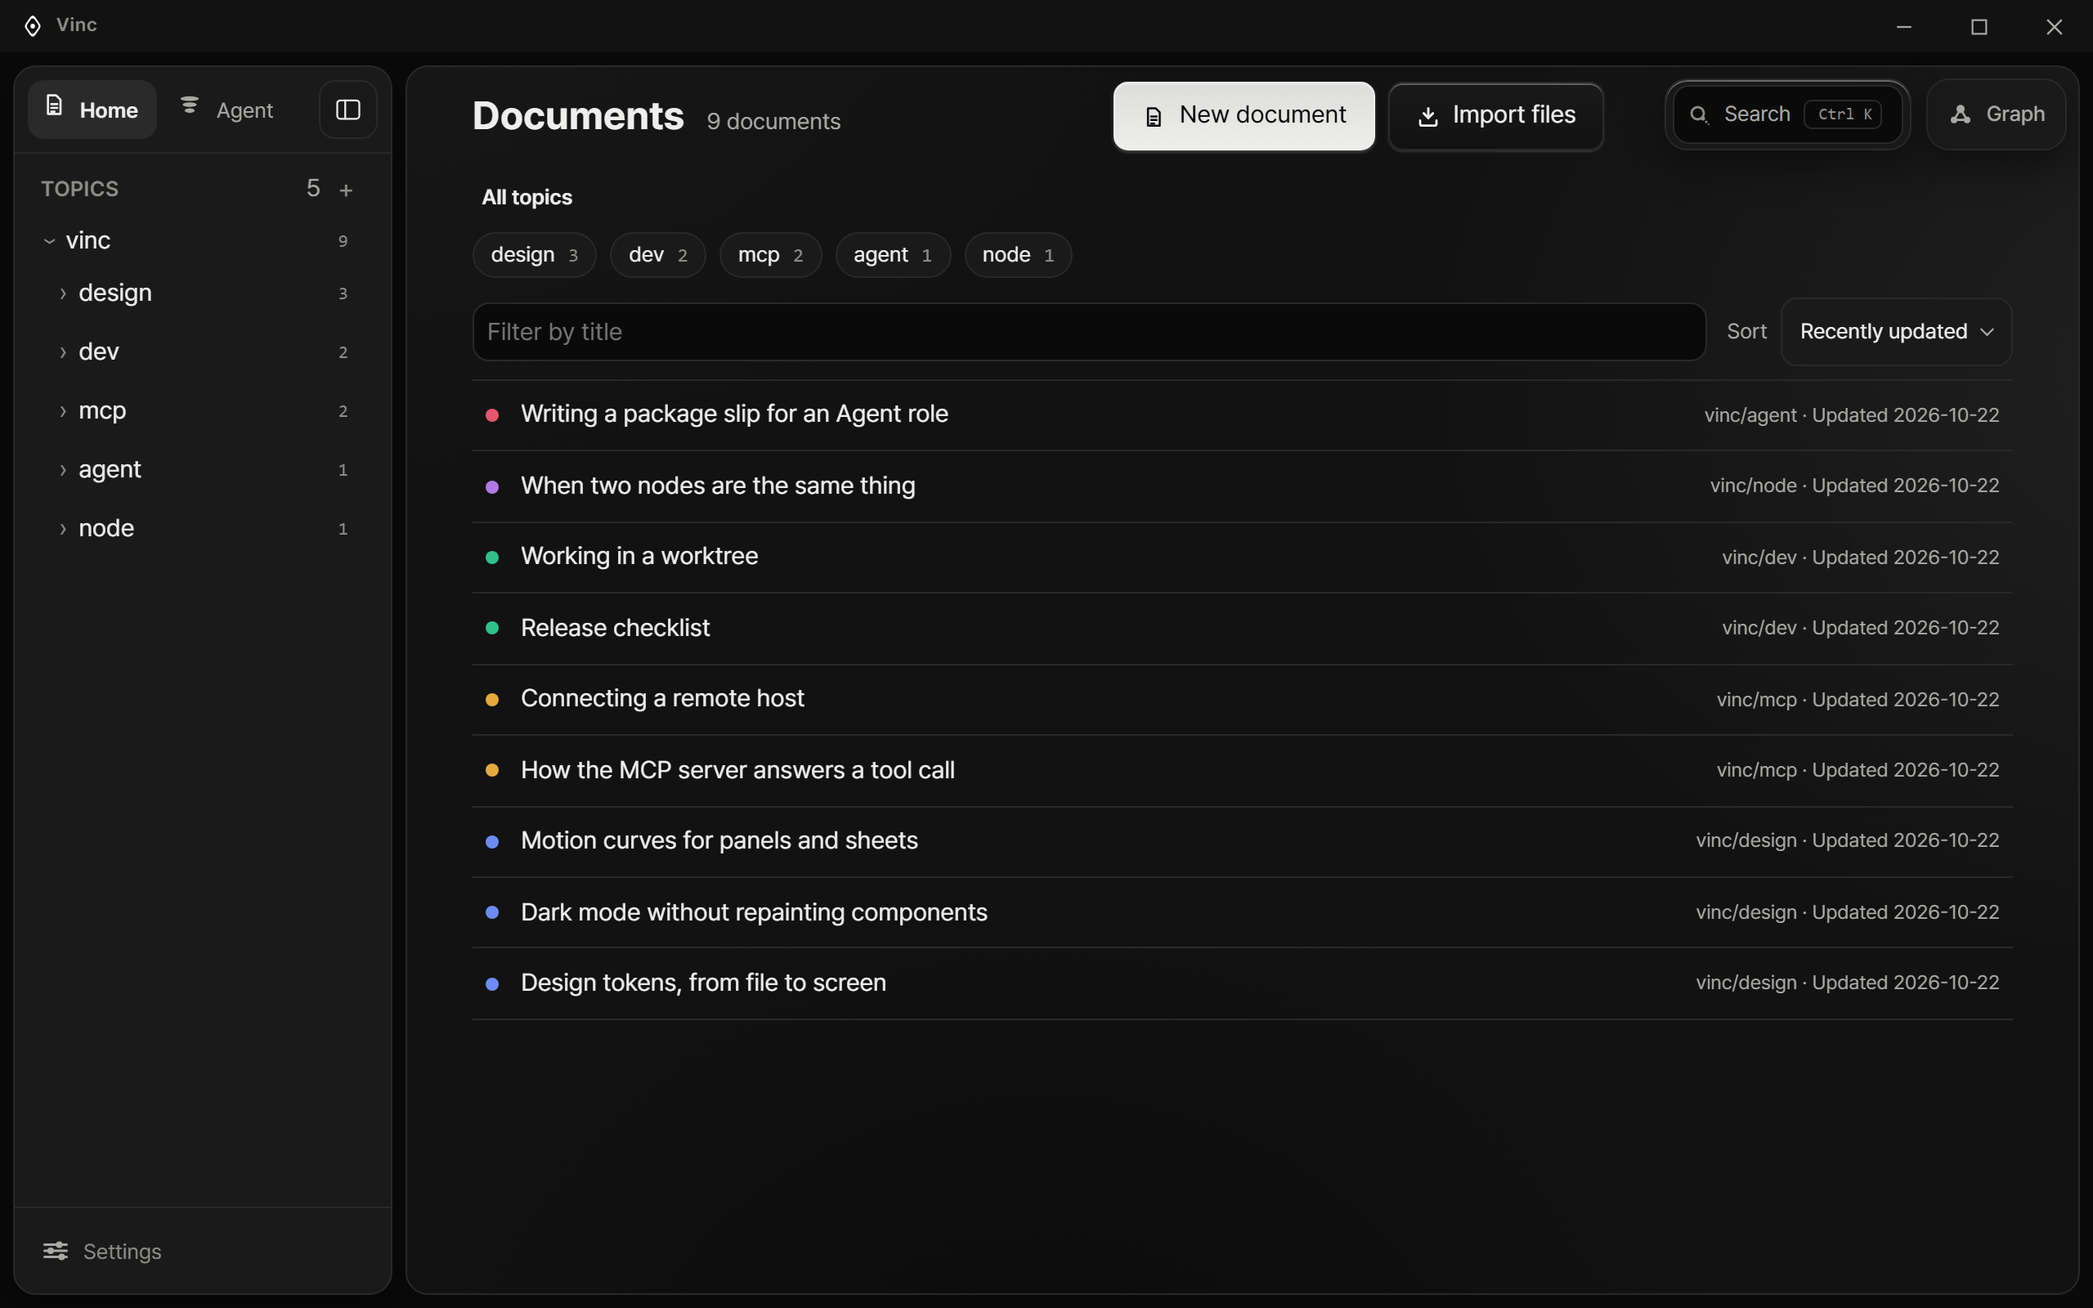
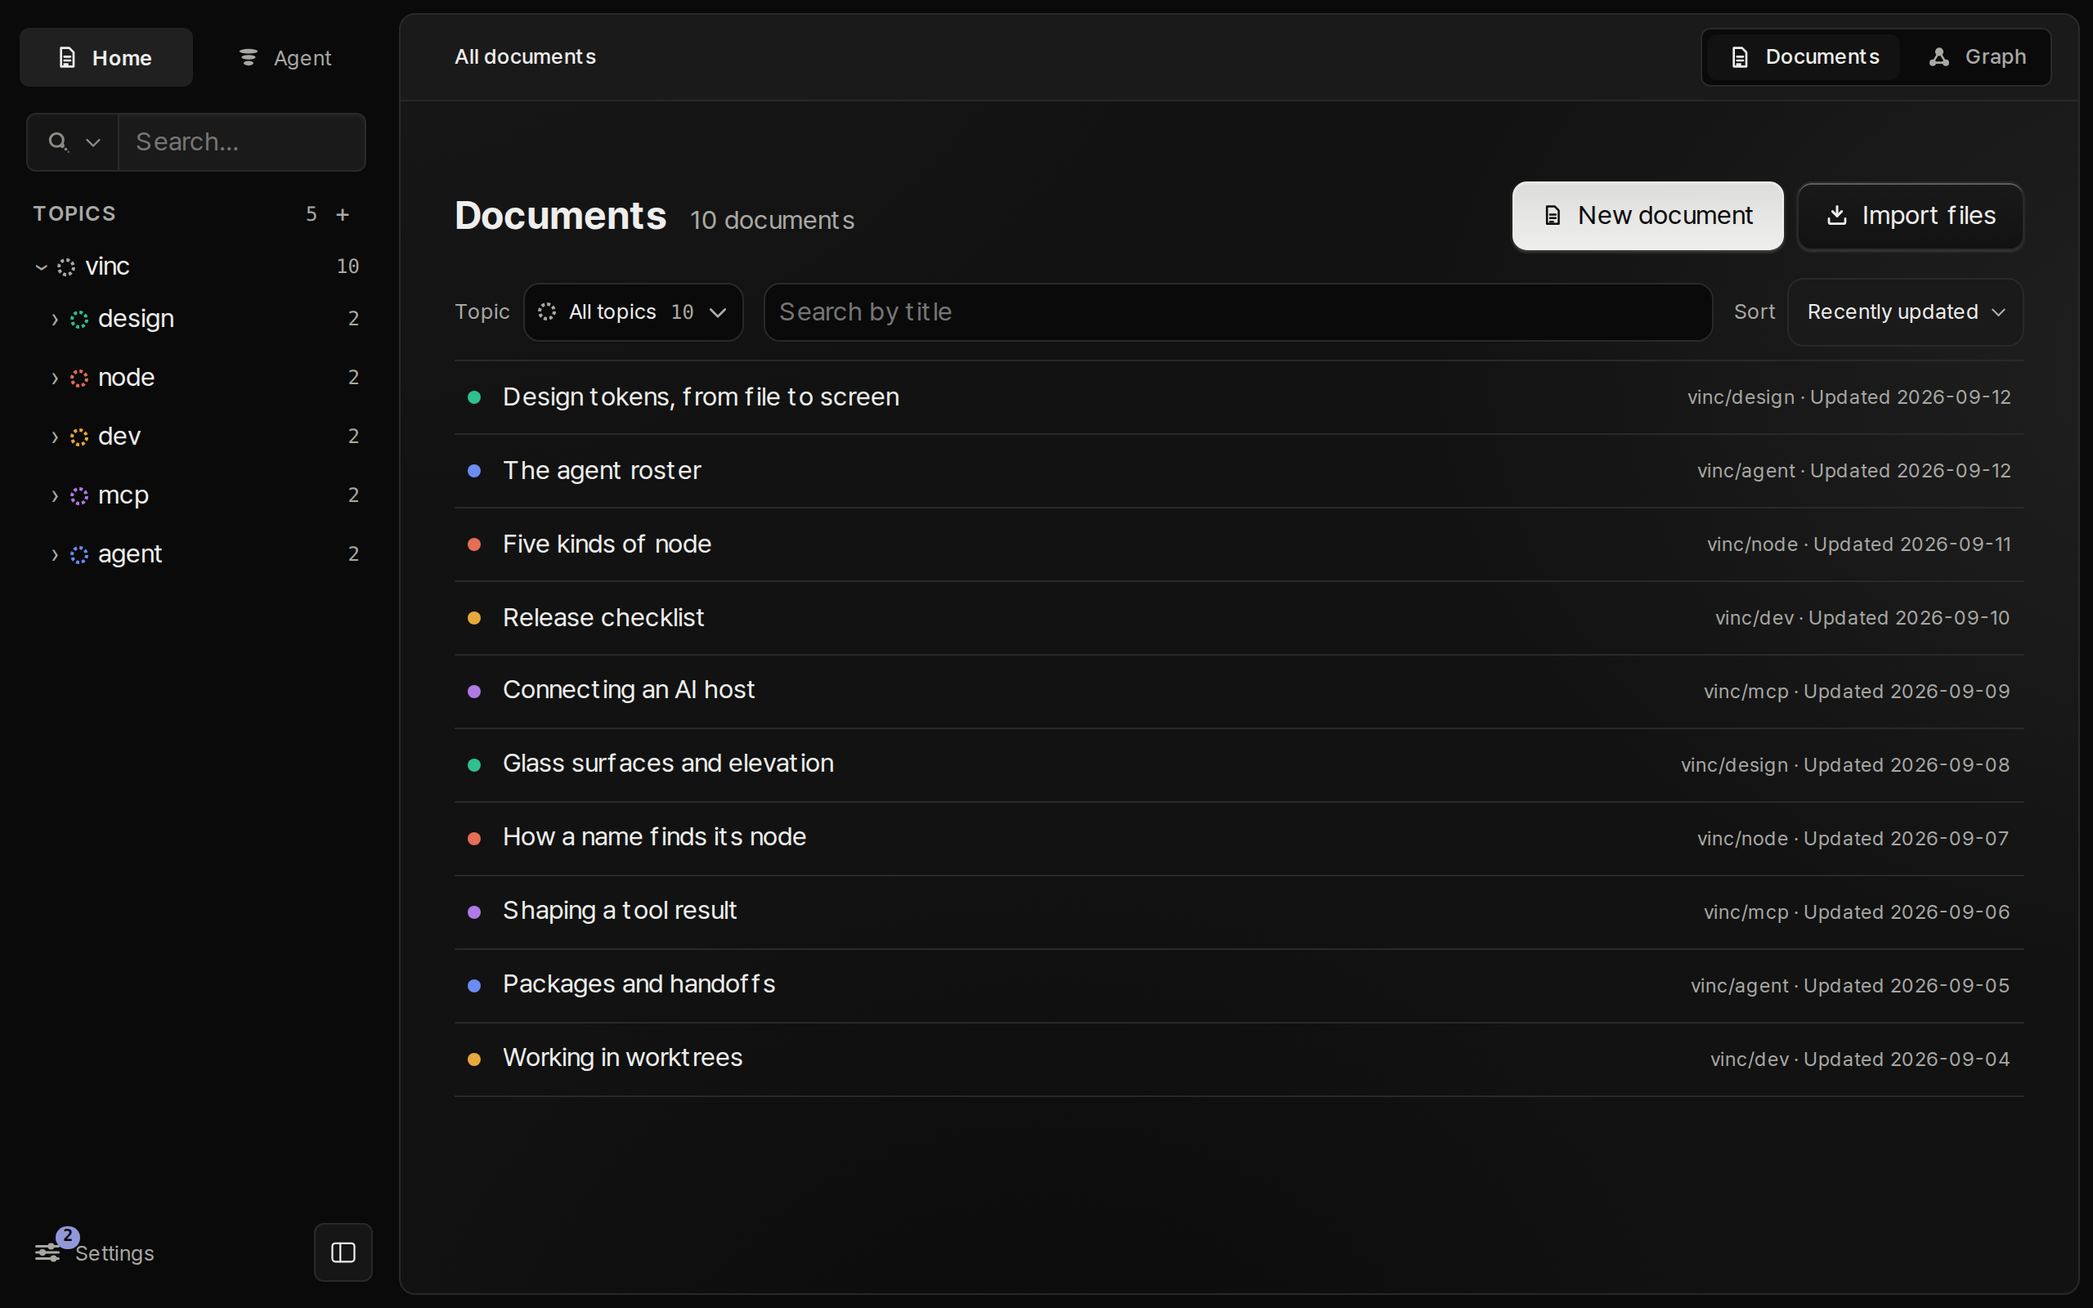
docs(readme): screenshots and copy of the 0.9.9 app on the demo graph (#14)
Recapture the eight README images from the docs demo built from the
v0.9.9 release commit (Vinc e1ab6d90), on its demo graph, at 2560x1600.
The 3D, 2D and Weave shots become the compass at the top-level topic,
the compass at one topic and Whole graph, and the agent list becomes
the agent map; those four files are renamed to match.

The copy follows the 0.9.9 release notes: search at the top of the
sidebar, one document toolbar with a topic tree, the compass map,
the agent map with policies, the Storage and Web assistants settings,
the space switcher in the view header and share previews. Nothing
describes the removed viewpoints or an Approvals screen.

Refs VIN-1079

diff --git a/README.md b/README.md
@@ -26,17 +26,17 @@
   <a href="https://vincs.io/release">Release notes</a>
 </p>
 
-Vinc is a knowledge graph you and your AI assistants share. Bring in documents and notes, see how concepts, decisions and records connect across four viewpoints, and let the assistants you already use read and write **the same graph** over MCP.
+Vinc is a knowledge graph you and your AI assistants share. Bring in documents and notes, see how concepts, decisions and records connect on one map, and let the assistants you already use read and write **the same graph** over MCP.
 
 - **One graph on every screen.** Once you sign in, the desktop app shows the graph in your account: the same one the web app shows, and the same one an assistant reaches at `mcp.vincs.io`. There is one copy, so there is nothing to sync.
 - **Answers quote your notes; nothing is generated.** Ask answers *What is X* and *Sources for X* with passages from your own documents, and every node lists the documents behind it. You can check each answer against the text it came from.
 - **You decide where it lives and what leaves.** The graph lives in your account by default. Local mode keeps it in a folder you pick, with no copy in the account. To share, select part of the graph and send it as a pack: only that part goes.
 
 <p align="center">
-  <img alt="Vinc opening on the document home: documents newest first, topic chips and a title filter, with search and the Graph button at the top right" src="docs/images/home.png" width="900">
+  <img alt="Vinc opening on the document home: the sidebar with Home, Agent, search and the topic tree, and the document list newest first under one toolbar for topic, title search and sort" src="docs/images/home.png" width="900">
 </p>
 <p align="center">
-  <em>The document home, the first screen, on the demo graph. Every document, newest first, narrowed by topic or title. The sidebar holds Home, Agent and the topics; search and the Graph button sit at the top right.</em>
+  <em>The document home, the first screen, on the demo graph. Every document, newest first, under one toolbar for topic, title search and sort. Search sits at the top of the sidebar, above the topic tree; Documents and Graph sit at the top right.</em>
 </p>
 
 ## Get started
@@ -62,7 +62,7 @@ sha256sum --check --ignore-missing SHA256SUMS
 
 `release-signing.pub` is the key the app's updater already trusts. For the terminal archive alone, its own `.sha256` works too: `sha256sum --check Vinc-cli-linux-x86_64.tar.gz.sha256`.
 
-**2. Sign in.** The first screen is the sign-in: **Sign in with email**, or **Continue with Google**. Vinc opens your browser to sign in and approve this device, then shows your documents, newest first. The **Graph** button at the top right opens the map. While it waits you can cancel, open the page again or copy its address.
+**2. Sign in.** The first screen is the sign-in: **Sign in with email**, or **Continue with Google**. Vinc opens your browser to sign in and approve this device, then shows your documents, newest first. **Graph**, at the top right beside **Documents**, opens the map. While it waits you can cancel, open the page again or copy its address.
 
 **3. Add something.** Drag a document (`.md`, `.txt`, `.rst`, `.pdf`) or a pack (`.vincpack`, `.json`) onto the window, or start from a single note. Or connect an assistant ([Works with](#works-with)) and let it write into the graph.
 
@@ -71,10 +71,10 @@ sha256sum --check --ignore-missing SHA256SUMS
 ## See it in action
 
 <p align="center">
-  <img alt="The Design token node opened in View: its card with Ask an assistant, and the Node detail pane with its kind, topic, links and the documents it appears in" src="docs/images/node-detail.png" width="900">
+  <img alt="The Design token node opened on the map: its card with Details and source, Links and Ask an assistant, and the Node detail pane with its topic, links, direction, attached items and the document it appears in" src="docs/images/node-detail.png" width="900">
 </p>
 
-Every node can be handed to an assistant as an address. Open a node in View (here, **Design token** from the demo graph), and in its card choose **Ask an assistant**, **Copy prompt**, **Explain this concept**. You get one line to paste into any assistant connected to Vinc:
+Every node can be handed to an assistant as an address. Open a node on the map (here, **Design token** from the demo graph), and in its card choose **Ask an assistant**, **Copy prompt**, **Explain this concept**. You get one line to paste into any assistant connected to Vinc:
 
 ```text
 Explain this concept using only what is in my Vinc graph. …?space=personal#view/trace/concept%3Adesign-0/d1
@@ -107,42 +107,42 @@ From there the assistant can walk one hop at a time with `vinc_neighbors`, trace
 
 | Capability | What you get |
 |---|---|
-| **Documents first** | The first screen is a document home: every document, newest first, narrowed by topic or title, read and written in place. The sidebar holds Home, Agent and your topics with their documents, and folds to a strip of icons. |
-| **View, four viewpoints** | 3D, 2D, Timeline and Weave over the same graph, opened with the **Graph** button. It opens as time branches in 3D: each Topic grows one arm with its items left to right by date, and the other topics fill the space around the main one. You can switch to **by centre** in the view card. Nodes are glass, each topic wears its own jewel colour, and shape tells the kind. A time cursor limits View to what existed at a date, and Flow plays it forward. The Timeline takes a period: the last 7, 30 or 90 days, this year, or dates you pick. |
-| **Find and Ask** | Find looks up names and keywords (and ranks by meaning on the account graph). **Search inside documents**, under the Find results, reads the text of your documents and shows the passage that matched. Korean is indexed two characters at a time, so a word is found even with a particle attached. Ask answers *What is X* and *Sources for X* by quoting your documents. |
-| **Node detail** | For any node: its topic, links out and in, the documents behind it, and its properties. Edit properties in place as text, list, number, yes or no, or JSON. If the node changed after you started editing, Vinc does not save over it. |
-| **Add knowledge** | Drag in `.md`, `.txt`, `.rst` or `.pdf`, or start a new document or node where you are: **New document** and **Import files** on the document home, the tree, the palette, a shortcut or a right-click. Type `[[` to link a node, and in View hold Alt (Option on a Mac) and drag from one node to another to connect them. Import says where the files go (this device, your account or a team space) and which documents it adds, refreshes or leaves as they are. |
-| **Packs** | Shift-drag to select an area, or start from a node, and share it as a `.vincpack`. Records and decisions travel with it. Import a pack, or double-click one, and it joins your graph. |
-| **Agent roles** | Roles are nodes in your graph, listed under **Agent** by team. Press **+** above the list to make a new one; with no roles yet, the list offers **New Agent role**. A role's properties hold its mission and what it must never do, and **Work as this role** copies a prompt that hands the role to an assistant. An assistant can check its work against the role with `vinc_role_check`. |
-| **Spaces** | Switch between your personal graph and a team's shared graph in Settings, Account · storage. Every screen follows the space you pick. |
-| **MCP, CLI and API** | Web assistants reach the graph in your account at `https://mcp.vincs.io/mcp`. Settings, AI connections shows it with a **Copy address** button. An assistant on this computer sees what the app shows: the account graph in account mode, this computer's graph in local mode. The `vinc` command, REST v1 and Python packages for LangGraph and Microsoft Agent Framework reach the same graph ([CLI](https://vincs.io/docs/cli/), [API](https://vincs.io/docs/api/), [Frameworks](https://vincs.io/docs/frameworks/)). |
-| **Local mode** | Settings, Account · storage, **Keep the graph on this device**: the graph lives in a folder you pick and your account holds no copy. |
+| **Documents first** | The first screen is a document home: every document, newest first, read and written in place. One toolbar holds topic, title search and sort, and the topic opens a tree you can search at any level. Documents and the graph share one sidebar: Home and Agent on top, search below them, then the topic tree in topic colours. A topic row narrows the document list or moves the map to that topic. Documents insert tables, math and code blocks, and table cells are edited in place. |
+| **The map is a compass** | **Graph** opens one 2D compass at your own top-level topic. The centre is where you are, 12 o'clock is where you came from, 9 is meaning relations, 3 is subtopics and bridges, and 6 is a trunk to the decisions, records and events attached. Click a node to open it where it stands, and click the centre again for its details. Press P to pin a node: it stays in place with its topic chain drawn. **Whole graph** unfolds every topic with every node at once, and **Time** and **Legend** sit beside the Graph title; Time narrows the map to the last 7 or 30 days. |
+| **Search and Ask** | Search sits at the top of the sidebar on every screen (Ctrl or Cmd K). It looks up names and keywords (and ranks by meaning on the account graph), and on the map it narrows the compass. **Search inside documents**, under the results, reads the text of your documents and shows the passage that matched. Korean is indexed two characters at a time, so a word is found even with a particle attached. Switch the box to Ask and it answers *What is X* and *Sources for X* by quoting your documents. |
+| **Node detail** | For any node: its topic, links out and in, what is attached to it, the documents behind it, and its properties. Edit properties in place as text, list, number, yes or no, or JSON. If the node changed after you started editing, Vinc does not save over it. |
+| **Add knowledge** | Drag in `.md`, `.txt`, `.rst` or `.pdf`, or start a new document or node where you are: **New document** and **Import files** on the document home, the tree, the palette, a shortcut or a right-click. Type `[[` to link a node, or choose **Connect** in a node's card to link it to another. Import says where the files go (this device, your account or a team space) and which documents it adds, refreshes or leaves as they are. |
+| **Packs** | Choose **Share** on a node and send that part of the graph as a `.vincpack`. The sheet shows what will go and lets you leave items out; one share takes at most 2,000 nodes. Records and decisions travel with it. Import a pack, or double-click one, and it joins your graph. |
+| **Agents** | **Agent** in the sidebar opens a map of your agents and their procedures, one colour per agent. Pick a dot to edit it in the side panel, gates included; **Add agent** and **Add procedure** sit under the title, and policies sit in cards under the map. A role says what it outputs, when it may act without asking, its budget and which tools it may use, and its page shows the evaluation cards from its runs. Roles export as skills and files for every assistant host. **Work as this role** copies a prompt that hands the role to an assistant, and an assistant can check its work against the role with `vinc_role_check`. A run that reaches an action only a person may take ends blocked and names the action, so your assistant reports it to you. |
+| **Spaces** | The current space shows in the view header, and you switch between your personal graph and a team's shared graph from there. Settings, Spaces lists the spaces you work in. Every screen follows the space you pick. |
+| **MCP, CLI and API** | Web assistants reach the graph in your account at `https://mcp.vincs.io/mcp`. Settings, Web assistants shows it with a **Copy address** button. An assistant on this computer sees what the app shows: the account graph in account mode, this computer's graph in local mode. The `vinc` command, REST v1 and Python packages for LangGraph and Microsoft Agent Framework reach the same graph ([CLI](https://vincs.io/docs/cli/), [API](https://vincs.io/docs/api/), [Frameworks](https://vincs.io/docs/frameworks/)). |
+| **Storage and local mode** | Settings, Storage shows where your graph lives. **Keep it on this device** puts the graph in a folder you pick, and your account holds no copy. Storage can also check and connect a Neo4j database of your own; `vinc storage status`, `connect` and `move` do the same from the CLI. |
 | **Updates** | The app checks for a new release and offers to install it. The update's signature is checked before anything is installed. |
 
 <table>
   <tr>
-    <td width="50%"><img alt="The demo graph in 3D time branches" src="docs/images/view-3d.png"></td>
-    <td width="50%"><img alt="The demo graph in 2D time branches" src="docs/images/view-2d.png"></td>
+    <td width="50%"><img alt="The compass at the top-level topic vinc, with its five subtopics agent, node, dev, design and mcp to the right and their node counts" src="docs/images/view-top.png"></td>
+    <td width="50%"><img alt="The compass at the design topic: vinc above it, its concepts fanned to the left, and a trunk below to its decisions, records and events" src="docs/images/view-topic.png"></td>
   </tr>
   <tr>
-    <td><em>3D: each topic grows an arm along time, earlier on the left, and the other topics fill the space around it.</em></td>
-    <td><em>2D: the same branches, flat. Each topic box reads left to right by date.</em></td>
+    <td><em>The map opens at your top-level topic. The centre is where you are, and the subtopics sit at 3 o'clock.</em></td>
+    <td><em>One topic in the centre: where you came from at 12, its concepts at 9, and a trunk at 6 to the decisions, records and events attached.</em></td>
   </tr>
   <tr>
-    <td><img alt="The demo graph in Weave" src="docs/images/view-weave.png"></td>
-    <td><img alt="Search with the query token and its results" src="docs/images/find-results.png"></td>
+    <td><img alt="Whole graph: every topic of the demo graph unfolded with its nodes, each in its own colour" src="docs/images/view-whole.png"></td>
+    <td><img alt="The sidebar search with the query token and four results with their topics, above All documents and Search inside documents" src="docs/images/find-results.png"></td>
   </tr>
   <tr>
-    <td><em>Weave: every node on the ring by topic, and only the links cross the middle.</em></td>
-    <td><em>Find: type <code>token</code> in the search pill and the matching nodes and documents come back with their topic. ≈ marks a match by meaning.</em></td>
+    <td><em>Whole graph: every topic with every node at once. Press it again to return to the layer you were in.</em></td>
+    <td><em>Search: type <code>token</code> at the top of the sidebar and the matching nodes come back with their topic. <strong>Search inside documents</strong> reads the text of your documents.</em></td>
   </tr>
   <tr>
-    <td><img alt="The Agent list with CI Gate Runner open" src="docs/images/agent-list.png"></td>
-    <td><img alt="A document open on the document home, with its topic and node beside it" src="docs/images/doc-read.png"></td>
+    <td><img alt="The agent map: Maker and Checker with their procedures, Maker open in the side panel, and Policies under the map" src="docs/images/agent-map.png"></td>
+    <td><img alt="The document Design tokens, from file to screen open in place, with Insert, its contents, the concepts in it, its topic and its node beside it" src="docs/images/doc-read.png"></td>
   </tr>
   <tr>
-    <td><em>Agent: roles grouped by team, with who each one works from and hands off to. CI Gate Runner carries its mission, team and tier as properties.</em></td>
-    <td><em>A document opens in place, with its topic and the node it became beside it. <strong>Show in graph</strong> jumps to that node.</em></td>
+    <td><em>Agent: a map of Maker, Checker and their procedures, one colour per agent. Pick a dot to edit it in the side panel; policies sit under the map.</em></td>
+    <td><em>A document opens in place, with its contents, the concepts in it, its topic and the node it became beside it. <strong>Insert</strong> adds tables, math and code, and <strong>Show in graph</strong> jumps to the node.</em></td>
   </tr>
 </table>
 
@@ -178,7 +178,7 @@ Step by step, per host: [vincs.io/docs/mcp](https://vincs.io/docs/mcp/).
 
 **Does it work offline?** The first sign-in needs a network. In the default account mode the app needs to reach your account. Local mode reads the graph from a folder on this device.
 
-**A graph I made before signing in is not on the web.** It stayed on this device. To move it into your account, turn off local mode in Settings, Account · storage, and choose **Move to my account and turn off**. Vinc asks before it moves anything.
+**A graph I made before signing in is not on the web.** It stayed on this device. To move it into your account, turn off local mode in Settings, Storage, and choose **Move to my account and turn off**. Vinc asks before it moves anything.
 
 **A large file will not import.** In account mode a single import has a size limit, and a PDF reaches it sooner than text. Vinc says so when a file is over it: split the file.
 
